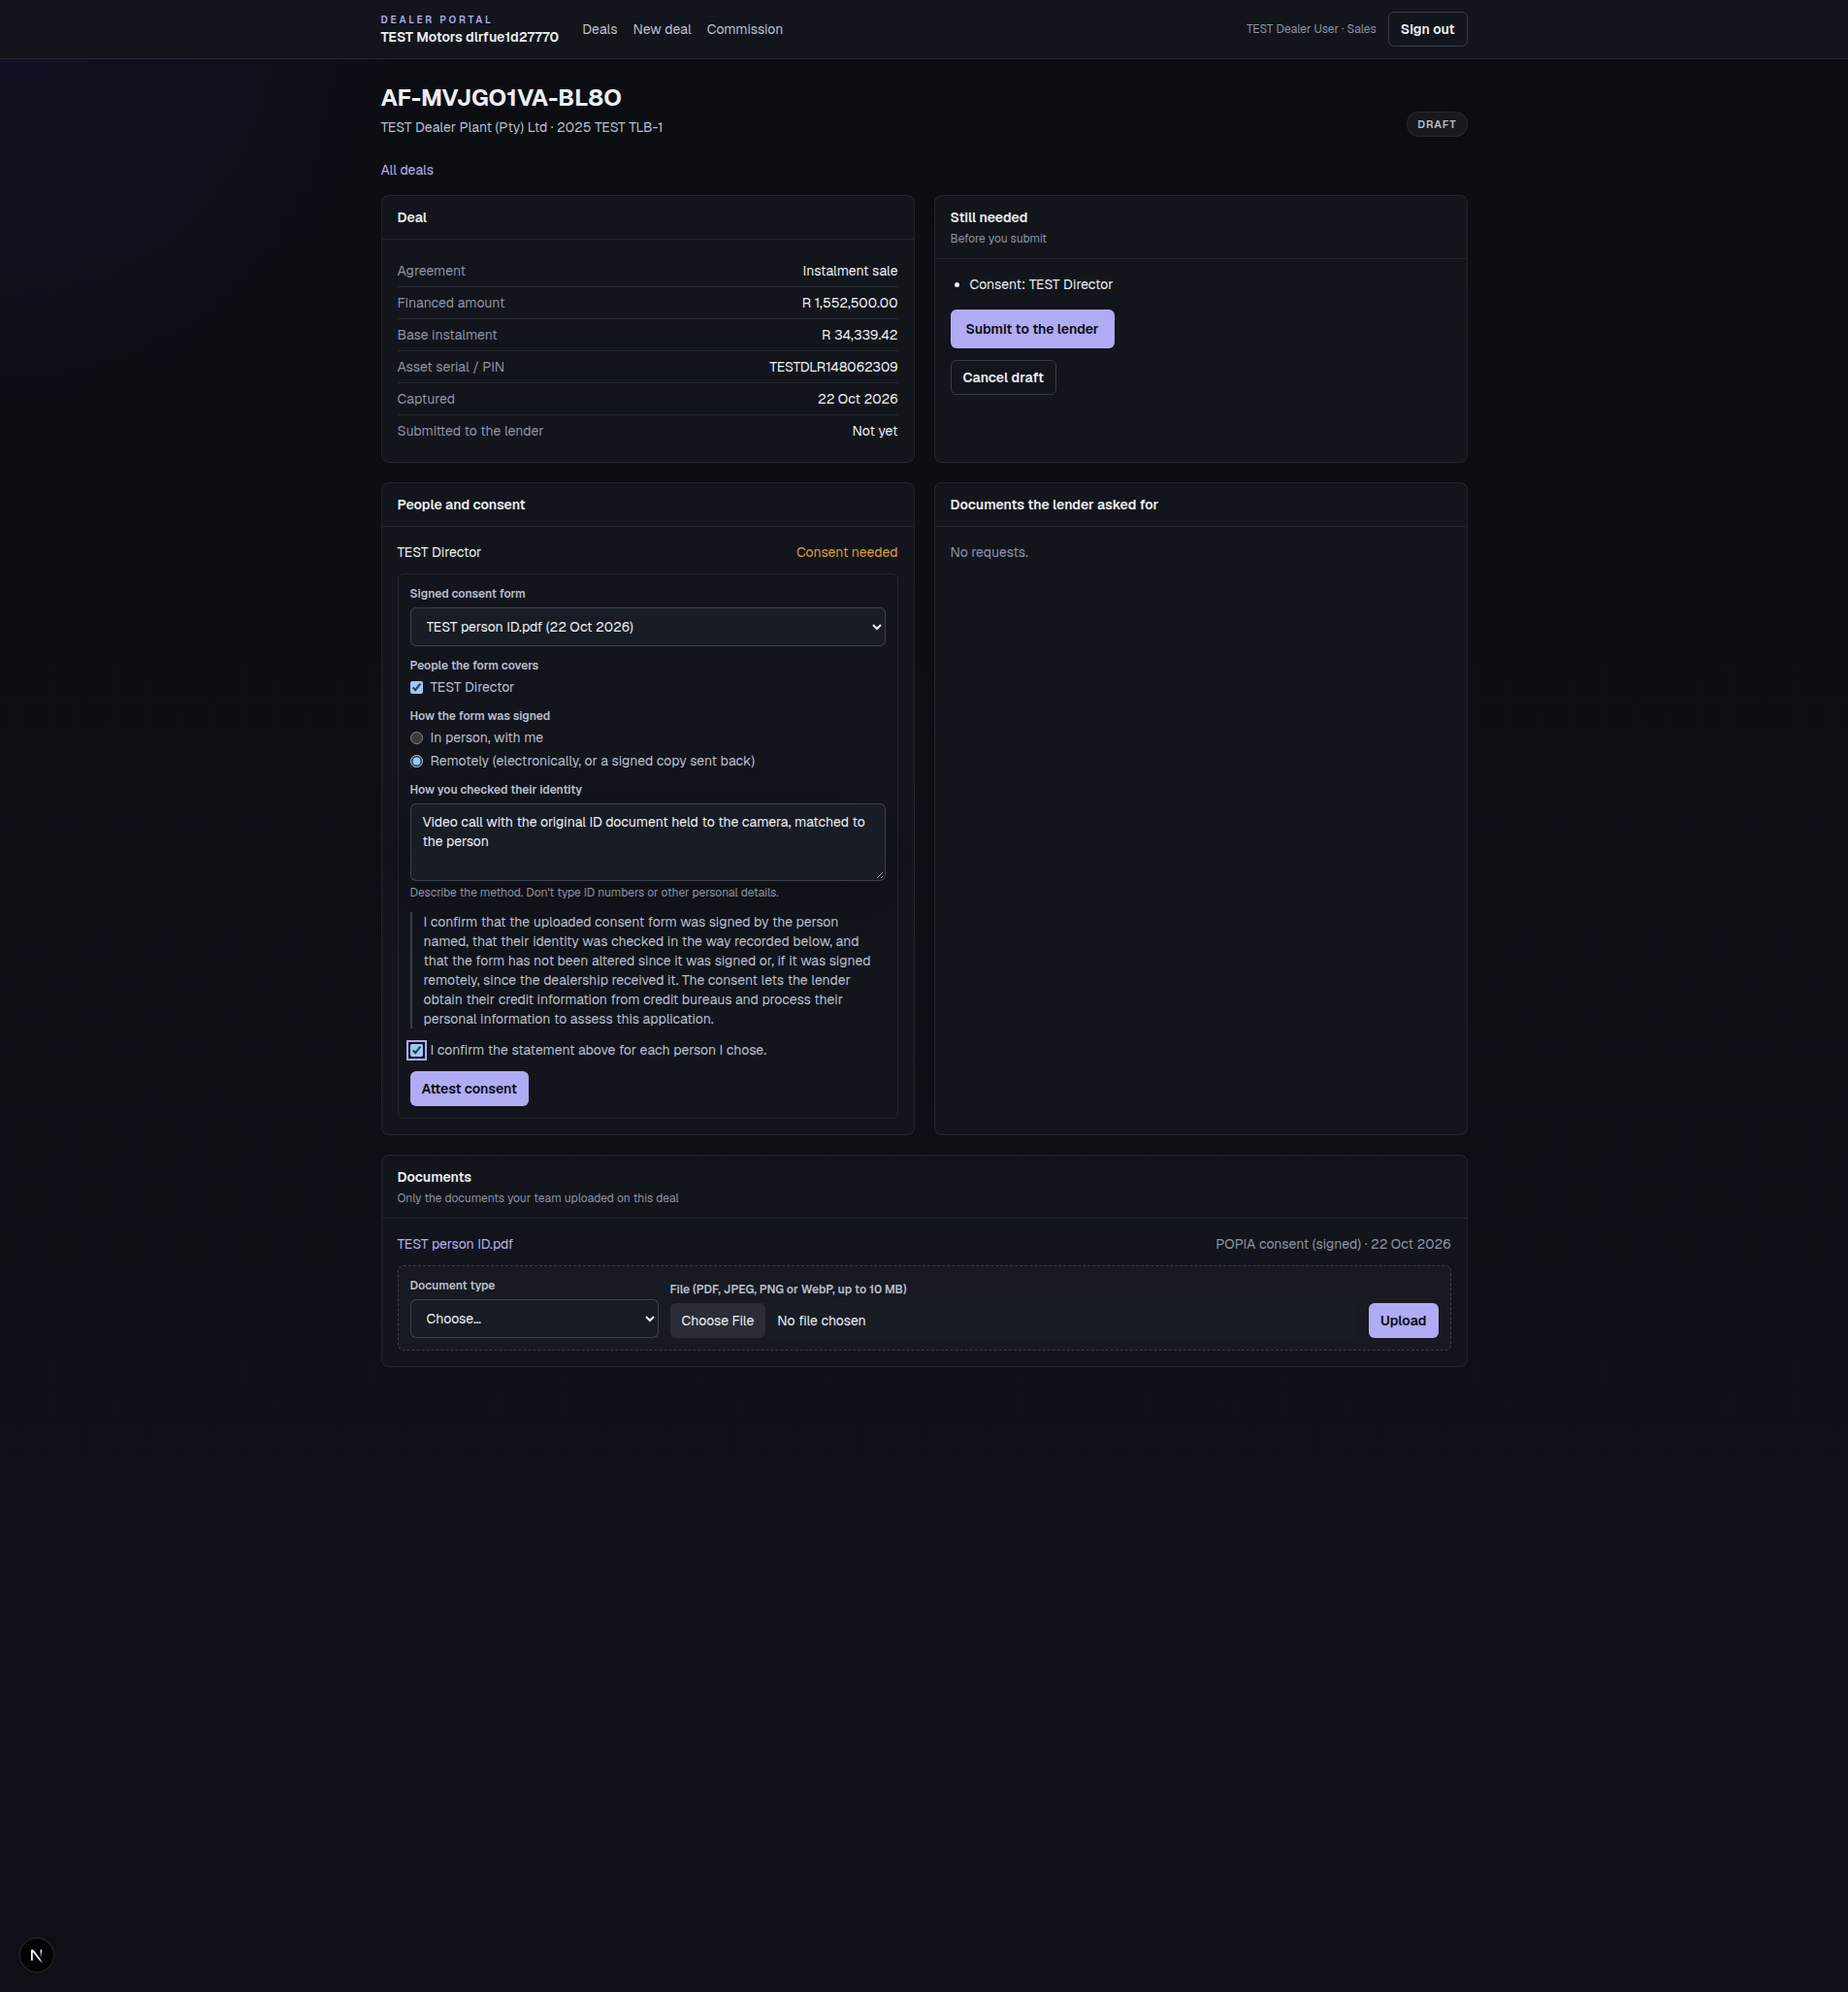
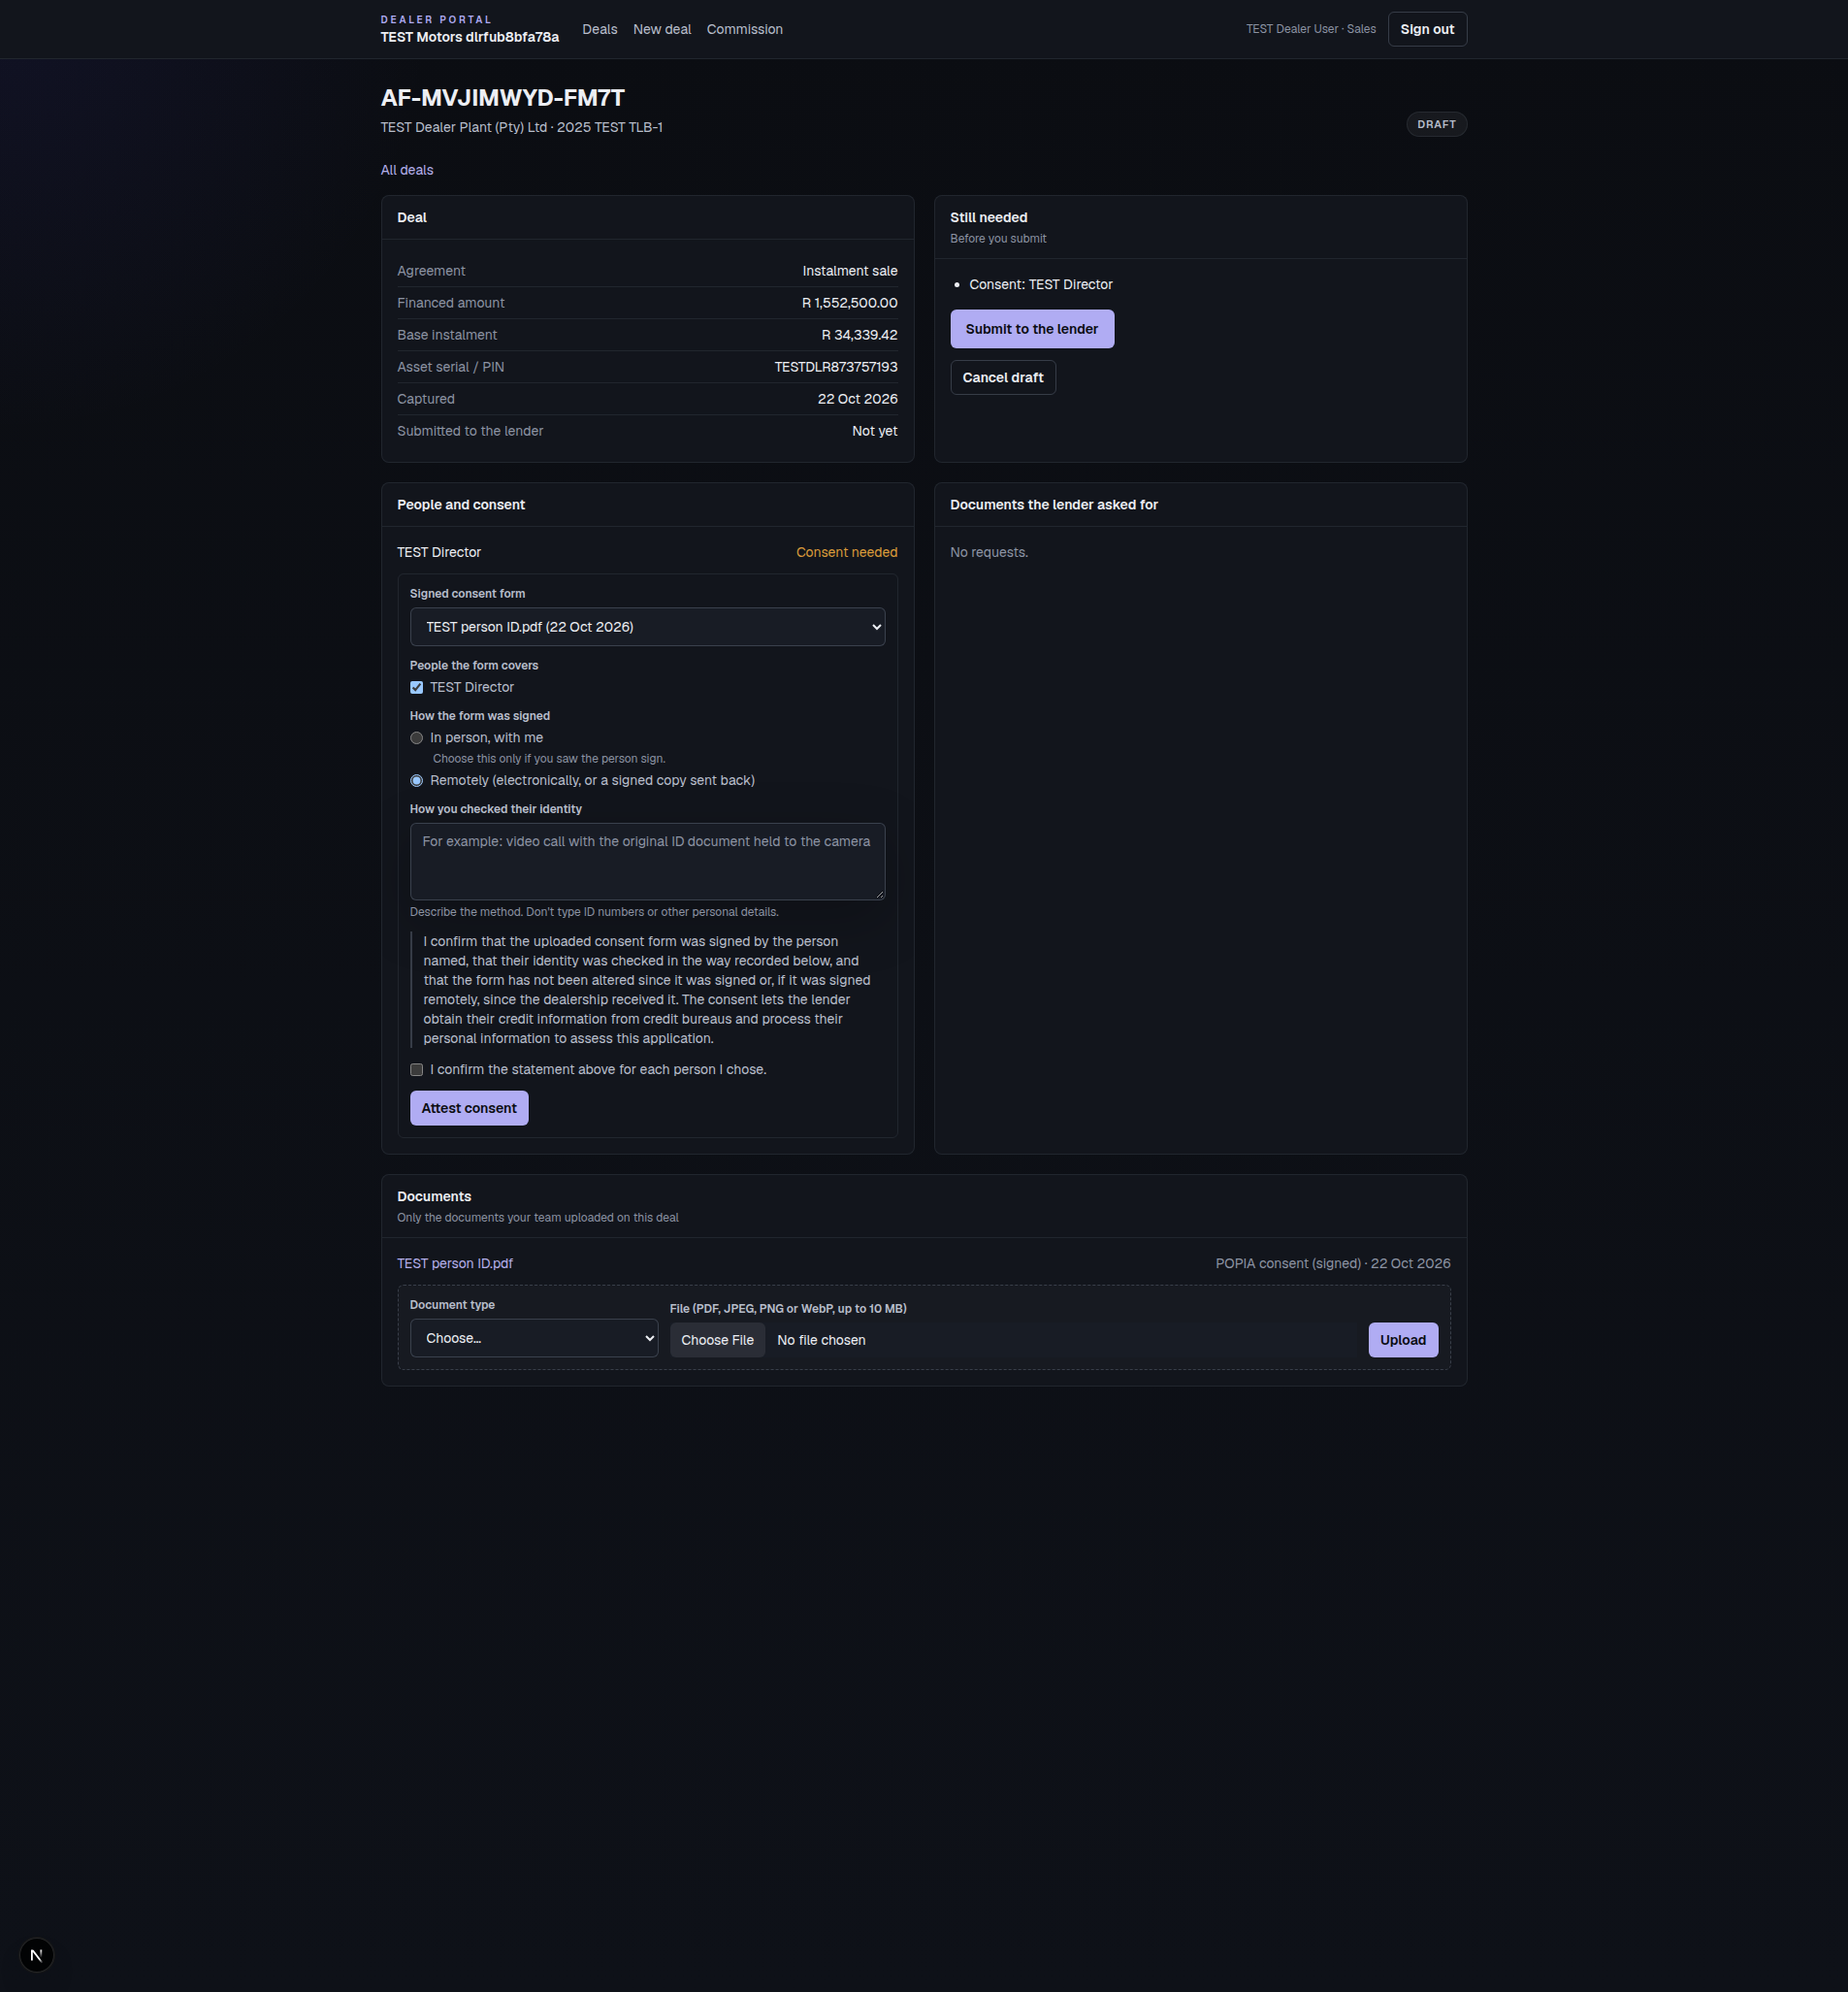
Dealer follow-ups: acceptance screenshots re-shot on the final copy

diff --git a/docs/asset-finance/evidence/slice5-followups/browser/D/RESULTS.md b/docs/asset-finance/evidence/slice5-followups/browser/D/RESULTS.md
@@ -12,7 +12,7 @@ page loaded with 0 console errors.
 | Dealer cancels own draft | CANCELLED with the reason; accurate retention copy | "The lender keeps this draft's details for 90 days after you cancel it. It then erases the people, business and documents you captured on it, unless it holds them for another reason."; staff panel "Cancelled by the dealer (TEST Dealer User) … “The buyer chose another machine”" | `03-dealer-cancel-form.png`, `04-dealer-draft-cancelled.png`, `07-staff-sees-dealer-cancellation.png` |
 | Second dealer | 404 | page "Not found"; `POST …/cancel` → `404 {"error":"Deal not found"}`; B's deal list empty | `05-other-dealer-404.png` |
 | Purge cron | the 91-day draft purged, nothing else | `{"ok":true,"tenants":1,"deals":1,"failed":0}`; tombstone `ABANDONED_DRAFT`, 1 person, 1 business, 2 documents erased, 0 kept; the draft cancelled today not purged | `08-staff-sees-purge-tombstone.png` |
-| Purged draft closed for the dealer | no submit, cancel, attest or upload; a notice | "This draft was closed on 22 Oct 2026 and the details captured on it were erased. Start a new deal if the customer comes back."; no action buttons; borrower "Erased" | `10-dealer-sees-purged-draft-closed.png` |
+| Purged draft closed for the dealer | no submit, cancel, attest or upload; a notice | "This draft was closed on 22 Oct 2026. The lender erased the details captured on it, except any it holds for another reason. Start a new deal if the customer comes back."; no action buttons; borrower "Erased" | `10-dealer-sees-purged-draft-closed.png` |
 | Booked deal untouched | no tombstone, rows unchanged | no "Dealer data purged"; md5 of the booked deal's deal, business and document rows `5def26de…` before and after the cron run | `09-staff-booked-deal-untouched.png` |
 
 ## Found and fixed during the runs
@@ -24,3 +24,11 @@ page loaded with 0 console errors.
 - This run: the purged-draft notice first said "Start a new deal to finance
   this asset", which the asset rules may not allow; it now says "if the
   customer comes back".
+
+## Re-shot after review rounds 2 to 4 (`cf-it-s5fd-browser3`)
+
+`01` and `10` were taken again on the final branch: the consent panel's
+"Choose this only if you saw the person sign." and "Describe the method. Don't
+type ID numbers or other personal details." hints, and the closed-draft notice
+above. The purge cron answered `{"ok":true,"tenants":1,"deals":1,"failed":0}`.
+0 console errors.
